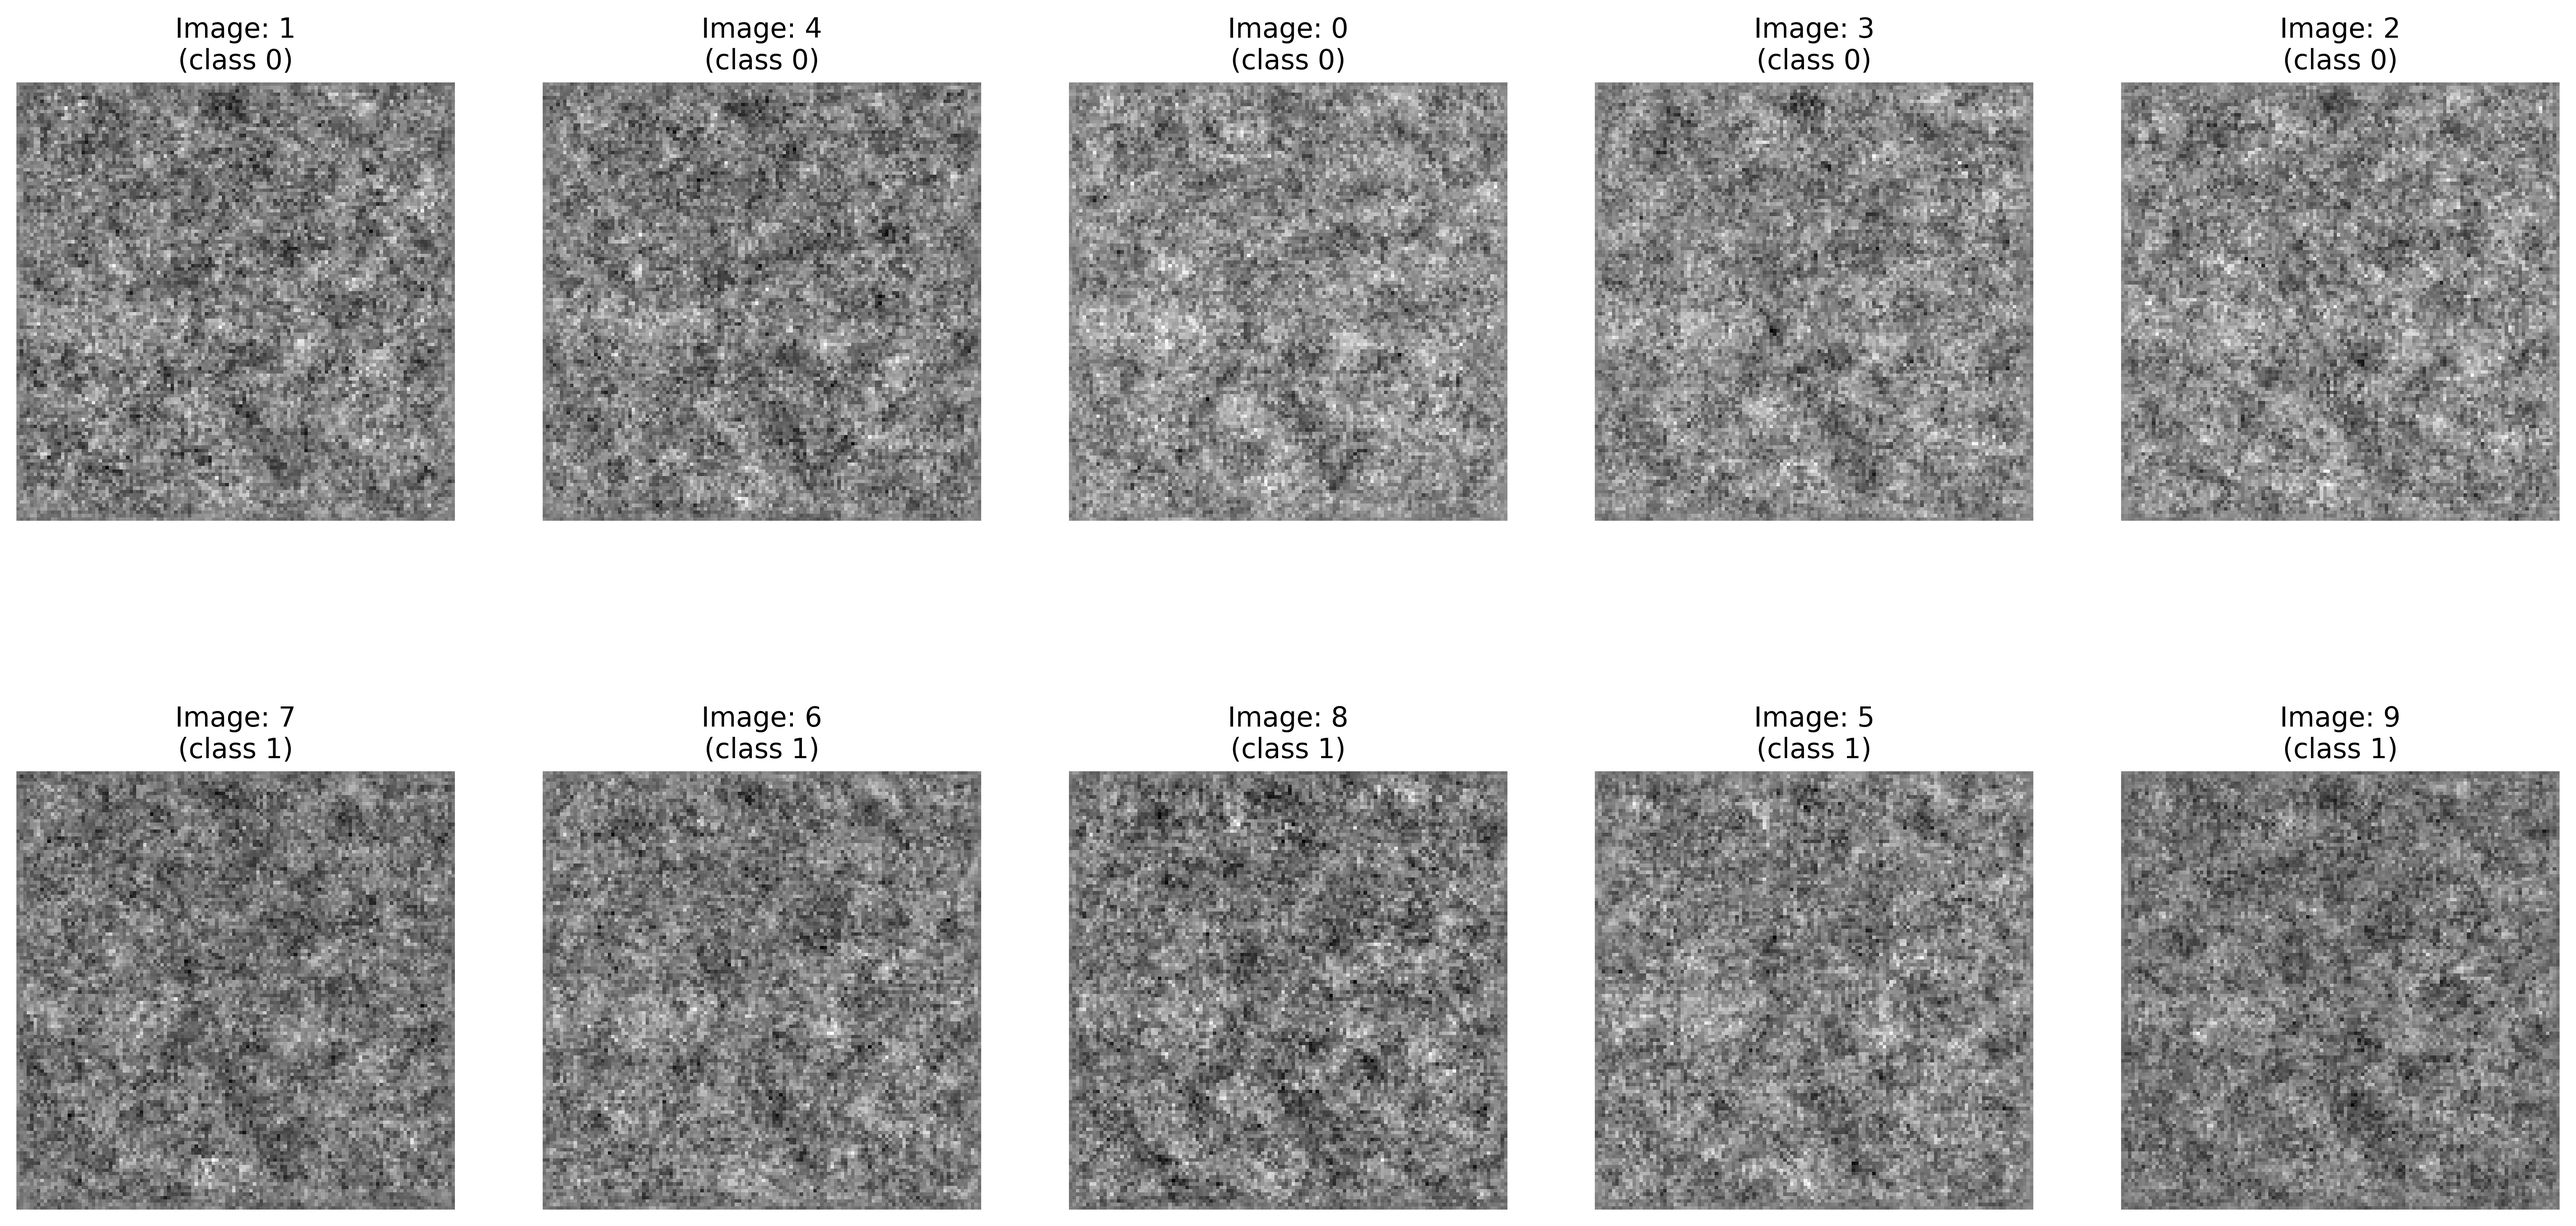
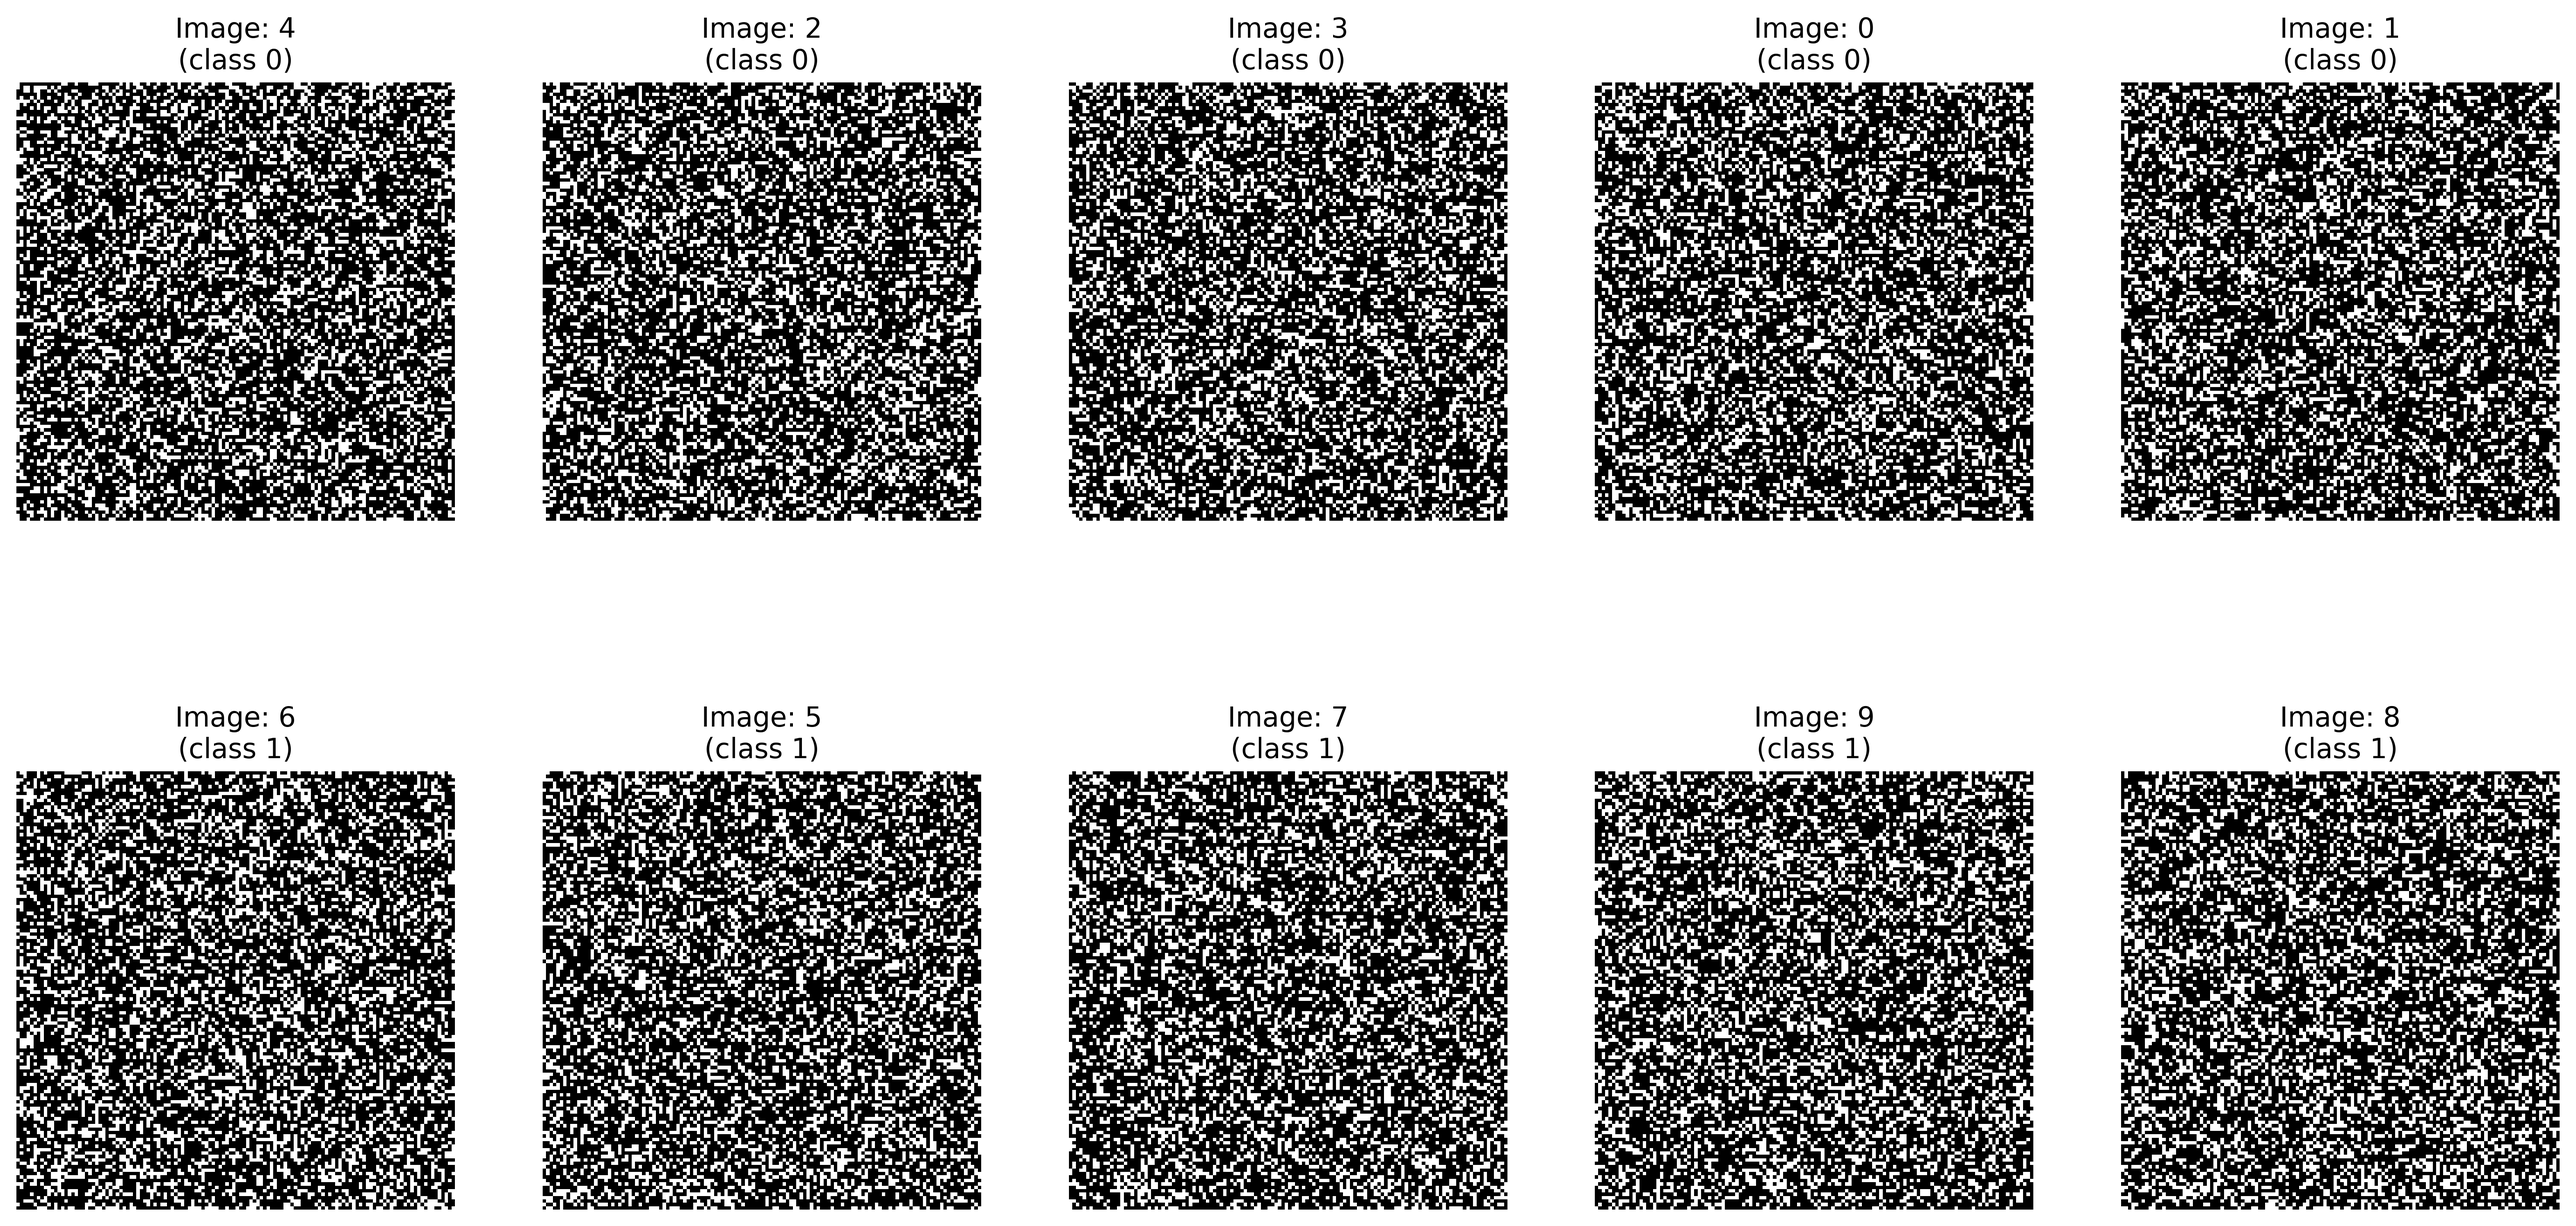
Fixed memory issue GM

diff --git a/CondensationModels.py b/CondensationModels.py
@@ -48,7 +48,6 @@ class GradientMatching():
                             monitor_epochs = -1,
                             update_interval = 1
                             )
-        self.sigmoid = nn.Sigmoid()
         print(f'Setup:\n\tUsing Compute: {self.device}\n\tk = {k}\n\tt = {t}\n\tc = {c}\n\tLearning Rate S: = {lr_S}',
                             f'\tLearning Rate Theta = {lr_Theta}')
 
@@ -80,6 +79,7 @@ class GradientMatching():
                 if isinstance(l, nn.Linear) or isinstance(l, nn.Conv2d):
                     grad_list.append(l.weight.grad.flatten())
         del loss
+        del out
         gc.collect() # cleanup step. (Loss here not used)
         return grad_list
 
@@ -92,6 +92,9 @@ class GradientMatching():
             torch.save(x, f = f'{self.savePath}/{self.customLabel}X.pt')
             torch.save(y, f = f'{self.savePath}/{self.customLabel}Y.pt')
         print(f'Saved "{self.customLabel}" to "{self.savePath}"')
+        del x
+        del y
+        gc.collect() # clean up
         return None
 
     def Generate(self, T_x, T_y):
@@ -104,9 +107,11 @@ class GradientMatching():
         DistanceLst = []
 
         for k in range(self.k):
+            del self.model 
+            self.model = M.ConvNet().to(self.device)
             self.carbonTracker.epoch_start()
             print('init random weights...')
-            self.model._init_weights()
+            #self.model._init_weights()
             for t in range(self.t):
                 self.optimizerS.zero_grad()
                 self.optimizerT.zero_grad()
@@ -135,28 +140,28 @@ class GradientMatching():
                     T_BatchY = self.sampleRandom(T_DataY, batch_size = self.batch_size)
                     S_BatchX = self.sampleRandom(S_DataX, batch_size = self.batch_size)                
                     S_BatchY = self.sampleRandom(S_DataY, batch_size = self.batch_size)
-                    del T_DataX
-                    del T_DataY
-                    del S_DataX
-                    del S_DataY
-                    gc.collect() # clean up
+                    #del T_DataX
+                    #del T_DataY
+                    #del S_DataX
+                    #del S_DataY
+                    #gc.collect() # clean up
                     t_grad = self.GetGradient(T_BatchX, T_BatchY)
                     s_grad = self.GetGradient(S_BatchX, S_BatchY)
-                    del T_BatchX
-                    del T_BatchY
-                    del S_BatchY
-                    del S_BatchX
-                    gc.collect() # clean up
+                    #del T_BatchX
+                    #del T_BatchY
+                    #del S_BatchY
+                    #del S_BatchX
+                    #gc.collect() # clean up
                     D = self.Distance(t_grad, s_grad)
                     D.backward()
                     DistanceLst.append(D.detach().cpu().numpy())
                     self.optimizerS.step()
-                    del t_grad
-                    del s_grad
-                    gc.collect() # clean up
+                    #del t_grad
+                    #del s_grad
+                    #gc.collect() # clean up
                 Whole_S = torch.utils.data.TensorDataset(self.S_x, self.S_y)
                 S_loader = torch.utils.data.DataLoader(Whole_S
-                                                        , batch_size = batch_size
+                                                        , batch_size = self.batch_size
                                                         , shuffle = True
                                                         , num_workers = 0)
                 tempLossLst = []
@@ -178,10 +183,12 @@ class GradientMatching():
                                     batch * len(data), len(S_loader.dataset),
                                     (100. * batch) / len(S_loader),
                                     np.mean(tempLossLst)))
-                
-
-                self.S_x = self.sigmoid(self.S_x) #Replace tanh -> sigmoid? [0-1]
-
+                del Whole_S
+                del S_loader
+                del loss
+                del tempLossLst
+                gc.collect()
+                with torch.no_grad(): self.S_x.sigmoid_() #Replace tanh -> sigmoid? [0-1]
                 torch.save(self.S_x, f = f'Data/Synthetic_Alzheimer_MRI/GMIntermidiateX.pt')
                 torch.save(self.S_y, f = f'Data/Synthetic_Alzheimer_MRI/GMIntermidiateY.pt')
             self.carbonTracker.epoch_end()
@@ -301,7 +308,7 @@ class DistributionMatching():
 
             self.S_x = nn.Sigmoid()(self.S_x)
             self.carbonTracker.epoch_end()
-            # backpropagation and weight update
+
 
             Loss_Sum.backward()
             self.optimizerT.step()            
@@ -344,6 +351,7 @@ train_Loader = torch.utils.data.DataLoader(train_Set,
                                         num_workers = 4)
 
 print('\nStaring Condensation...\n')
+<<<<<<< Updated upstream
 #model = M.ConvNet()
 #GM = GradientMatching(model
                         # , batchSize = 64
@@ -361,6 +369,14 @@ DM = DistributionMatching(model
                         , batchSize = 32
                         , syntheticSampleSize = 100
                         , k = 10
+=======
+model = M.ConvNet()
+GM = GradientMatching(model
+                        , batchSize = 64
+                        , syntheticSampleSize = 402
+                        , k = 10
+                        , t = 50
+>>>>>>> Stashed changes
                         , c = 2
                         , lr_Theta = 0.01
                         , lr_S = 1

diff --git a/Models.py b/Models.py
@@ -130,7 +130,6 @@ class ConvNet(nn.Module):
         self.norm3 = nn.InstanceNorm2d(128)
         self.relu3 = nn.ReLU(inplace=True)
         self.pool3 = nn.AvgPool2d(kernel_size=2, stride=2)
-        
         self.fc = nn.Linear(32768, num_classes)
     def _init_weights(self):
         for m in self.modules():
